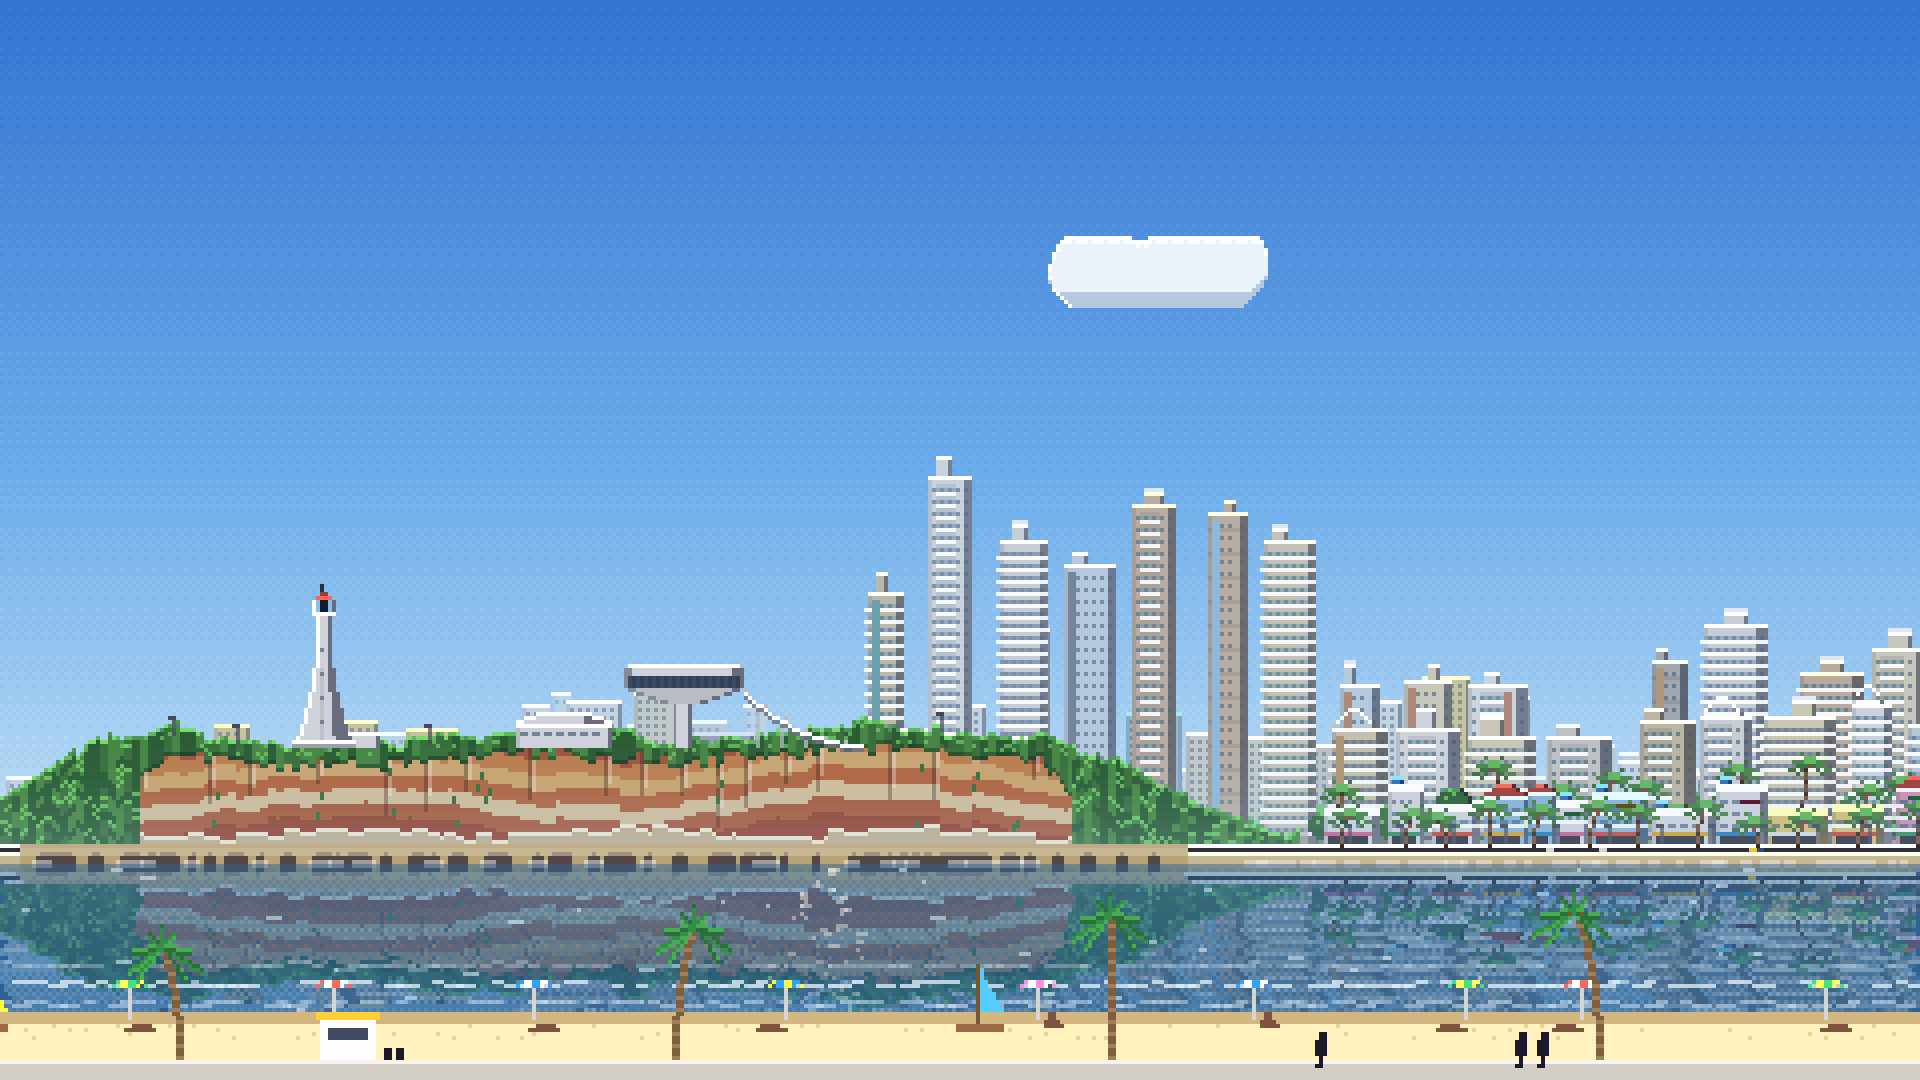
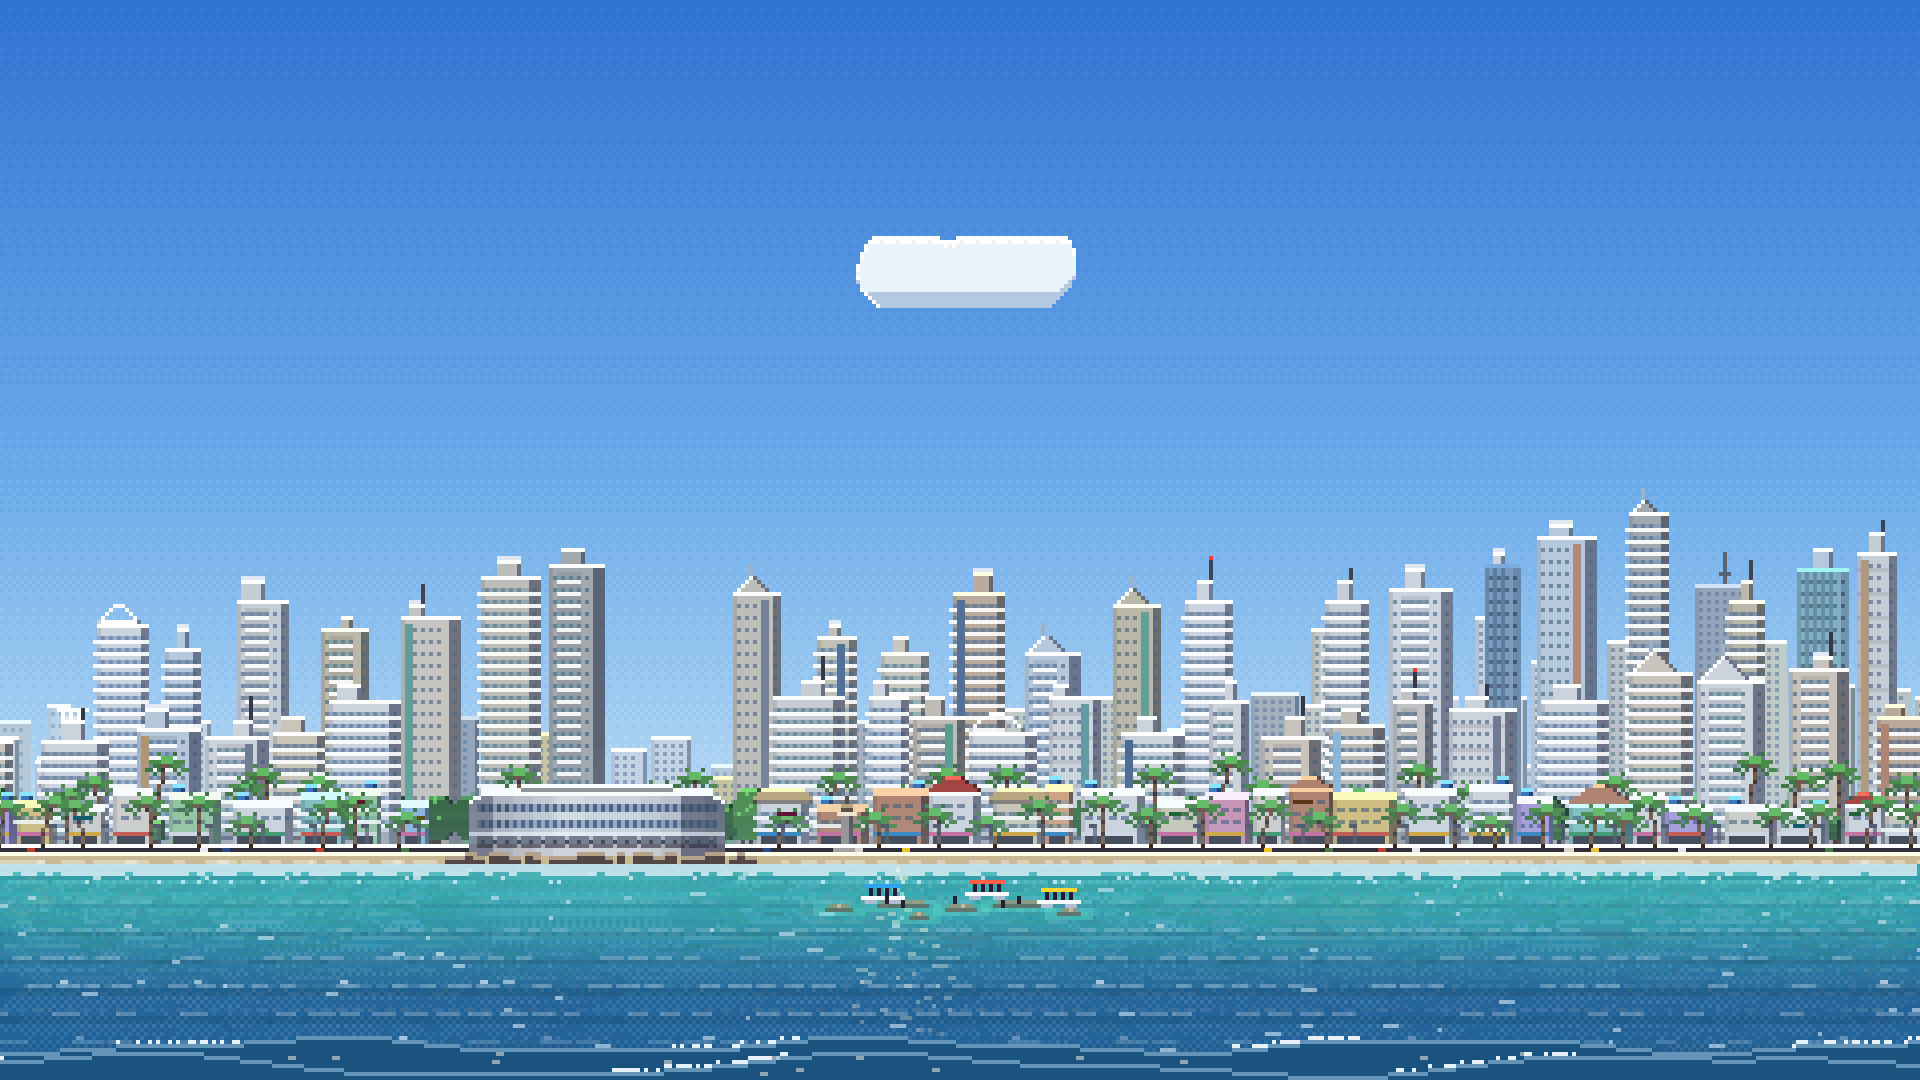
João Pessoa seen from the open Atlantic, not across a river
- Engine: ocean water option (city.water.kind = 'ocean'): turquoise shallows by the beach
  fading to deep blue toward the viewer, weaker choppy reflections, swells rolling in to shore
  with whitecaps, and surf breaking in a foam line on the beach
- Sea foreground (near swells with crests, foam and glints) instead of a second beach
- João Pessoa uses both; Rio keeps its calm Guanabara Bay

diff --git a/js/main.js b/js/main.js
@@ -103,7 +103,10 @@
   let t = 0;
   const events = [];
   let nextEvent = 2, nextAmbient = 6;
-  const promenade = city.foreground && city.foreground.kind === 'beach' && PS.Beach ? new PS.Beach(city.foreground) : new PS.Promenade(city.foreground);
+  const fgKind = city.foreground && city.foreground.kind;
+  const promenade = fgKind === 'beach' ? new PS.Beach(city.foreground) : fgKind === 'sea' ? new PS.Sea(city.foreground) : new PS.Promenade(city.foreground);
+  // Open ocean (vs. river/bay): coloured shallows, weaker choppy reflections, swells and surf.
+  const ocean = city.water && city.water.kind === 'ocean' ? city.water : null;
   const claimed = new Set();
   const claimedGrid = new Set();
   let toast = null;
@@ -298,17 +301,26 @@
   function renderWater() {
     const w = VW, h = VH - horizon;
     const img = waterCtx.createImageData(w, h), d = img.data;
-    const base = P.wat;
-    const a0 = 0.46 + 0.04 * P.day, a1 = 0.78 + 0.04 * P.day;
+    let base = P.wat;
+    let a0 = 0.46 + 0.04 * P.day, a1 = 0.78 + 0.04 * P.day;
+    let shallow = null, deep = null;
+    if (ocean) {
+      // lit sea colours: turquoise over the sandy shallows by the beach, deep blue toward the viewer
+      const lit = PS.add(P.amb, PS.scale(P.sun, 0.35));
+      const tone = (c) => mix(PS.mul(hex(c), lit), P.wat, 0.25 + 0.5 * P.dark);
+      shallow = tone(ocean.shallow || '#3cc0b0'); deep = tone(ocean.deep || '#1d5f8e');
+      a0 = 0.62 + 0.25 * P.day; a1 = 0.86 + 0.1 * P.day;
+    }
     for (let y = 0; y < h; y++) {
       const k = y / Math.max(1, h - 1);
+      const col = ocean ? mix(shallow, deep, smooth(0.05, 0.7, k)) : base;
       for (let x = 0; x < w; x++) {
         const b = PS.bayer(x, y);
         let a = a0 + (a1 - a0) * k;
         a = Math.floor(a * 8 + b) / 8;
         if (y % 3 === 1 && b > 0.35) a += 0.08; // ripple troughs
         const i = (y * w + x) * 4;
-        d[i] = base[0]; d[i + 1] = base[1]; d[i + 2] = base[2]; d[i + 3] = Math.min(255, a * 255);
+        d[i] = col[0]; d[i + 1] = col[1]; d[i + 2] = col[2]; d[i + 3] = Math.min(255, a * 255);
       }
     }
     waterCtx.putImageData(img, 0, 0);
@@ -616,7 +628,7 @@
     fctx.setTransform(1, 0, 0, 1, 0, 0);
     const offs = [];
     for (let r = 0; r < band; r++) {
-      const amp = 0.4 + r * 0.07;
+      const amp = (0.4 + r * 0.07) * (ocean ? 2.4 : 1);
       offs.push(Math.round(Math.sin(r * 0.9 + t * 1.8 + Math.sin(r * 0.37 - t * 0.7) * 2) * amp));
     }
     for (let r = 0; r < band;) {
@@ -628,8 +640,46 @@
     ctx.drawImage(water, 0, 0, VW, wh, 0, horizon * s, VW * s, wh * s);
   }
 
+  // Ocean: swells rolling in toward the shore, whitecaps, and surf breaking on the beach.
+  function drawOcean(om) {
+    const wh = VH - horizon;
+    const lit = PS.add(P.amb, PS.scale(P.sun, 0.35));
+    const foam = mix(PS.mul([240, 246, 250], [Math.min(1, lit[0] + 0.15), Math.min(1, lit[1] + 0.15), Math.min(1, lit[2] + 0.15)]), P.hor, 0.2);
+    const trough = PS.mul(hex(ocean.deep || '#1d5f8e'), PS.scale(lit, 0.6));
+    const drift = cam * 1.2;
+    for (let k = 0; k < 7; k++) {
+      const p = (t / 11 + k / 7) % 1;               // 0 = near the viewer, 1 = at the shore
+      const y = Math.round(VH - 3 - p * (wh - 5));
+      const near = 1 - p, cell = 4 + Math.round(near * 6);
+      const fade = Math.sin(p * Math.PI) * 0.9 + 0.1;
+      ctx.fillStyle = PS.cssA(trough, 0.22 * fade);
+      pS.rect(0, y + 1, VW, near > 0.5 ? 2 : 1);
+      ctx.fillStyle = PS.cssA(foam, (0.18 + 0.2 * near) * fade);
+      const off = drift * (0.6 + near * 0.6) + k * 37;
+      for (let cx = -((off % cell) + cell) % cell; cx < VW; cx += cell) {
+        const idx = Math.floor((cx + off) / cell);
+        const hsh = PS.hash(idx, k * 131 + Math.floor(t / 11 + k / 7));
+        if (hsh < 0.3) continue;
+        pS.rect(Math.round(cx), y, Math.max(1, Math.round(cell * (0.4 + hsh * 0.5))), 1);
+        if (hsh > 0.93 && P.day > 0.2) { ctx.fillStyle = PS.cssA(foam, 0.7 * fade); pS.rect(Math.round(cx) + 1, y - 1, 2, 1); ctx.fillStyle = PS.cssA(foam, (0.18 + 0.2 * near) * fade); }
+      }
+    }
+    // surf line along the beach: a foam band that surges and pulls back
+    const surge = (Math.sin(t * 0.9) + 1) / 2;
+    ctx.fillStyle = PS.cssA(foam, 0.75 - 0.35 * P.dark);
+    const tick = Math.floor(t * 3);
+    for (let x = 0; x < VW; x += 2) {
+      const wx = Math.floor((x + om) / 2);
+      const hsh = PS.hash(wx, 7);
+      const depth = 1 + Math.round(hsh * 1.5 + surge * 1.5);
+      pM.rect(Math.floor(om / 2) * 2 + x, horizon, 2, depth);
+      if (PS.hash(wx, tick) > 0.8) pM.rect(Math.floor(om / 2) * 2 + x, horizon + depth + 1, 1, 1);
+    }
+  }
+
   function drawWaterSparkle(om) {
     const wh = VH - horizon;
+    if (ocean) drawOcean(om);
     const hl = mix(P.hor, [255, 255, 255], 0.35);
     const hlc = PS.cssA(hl, 0.35 + 0.25 * P.day);
     ctx.fillStyle = hlc;

diff --git a/js/beach.js b/js/beach.js
@@ -203,4 +203,40 @@
       }
     }
   };
+
+  // Open-sea foreground (João Pessoa seen from the water): big near swells rolling past the viewer.
+  PS.Sea = class {
+    constructor(o) { this.o = o || {}; this.par = 1.45; this.peds = []; }
+    update() {}
+    draw(p, S, camF) {
+      const VH = S.VH, P = S.P, t = S.t;
+      p.ox = 0;
+      const lit = PS.add(P.amb, PS.scale(P.sun, 0.4));
+      const deep = PS.mix(PS.mul(hex(this.o.deep || '#1a5a86'), lit), P.wat, 0.2 + 0.5 * P.dark);
+      const body = PS.mix(deep, [0, 0, 0], 0.15);
+      const crest = PS.mix(deep, [230, 245, 250], 0.35 - 0.2 * P.dark);
+      const foam = PS.mix(PS.mul([240, 246, 250], [Math.min(1, lit[0] + 0.2), Math.min(1, lit[1] + 0.2), Math.min(1, lit[2] + 0.2)]), P.hor, 0.2);
+      const VW = S.VW;
+      // two layers of long swells, the nearest largest
+      for (const [amp, base, speed, len, k] of [[1.6, VH - 9, 0.5, 0.045, 0], [2.4, VH - 4, 0.8, 0.032, 1]]) {
+        const off = camF * (1 + k * 0.4);
+        for (let x = 0; x < VW; x++) {
+          const ph = (x + off) * len + t * speed + k * 2;
+          const y = Math.round(base + Math.sin(ph) * amp + Math.sin(ph * 2.3 + 1) * amp * 0.35);
+          p.rect(x, y + 1, 1, VH - y, css(body));
+          p.rect(x, y, 1, 1, css(crest));
+          const slope = Math.cos(ph);
+          if (slope < -0.75 && PS.hash(Math.floor(x + off), Math.floor(t * 2) + k) > 0.45) p.rect(x, y - 1, 1, 1, css(foam));
+        }
+      }
+      // glints on the near water
+      if (P.day > 0.3 && !P.sunHidden) {
+        const tick = Math.floor(t * 4);
+        for (let i = 0; i < 18; i++) {
+          if (PS.hash(i, tick) > 0.5) continue;
+          p.rect(Math.floor(PS.hash(i * 3, tick) * VW), VH - 7 + Math.floor(PS.hash(i * 7, tick) * 6), 2, 1, PS.cssA([255, 250, 230], 0.5));
+        }
+      }
+    }
+  };
 })();

diff --git a/js/cities/jampa.js b/js/cities/jampa.js
@@ -799,7 +799,9 @@
         { y: 1, x0: HOTEL_X + (HOTEL_W >> 1) + 2, x1: BEACH[1], dir: 1 },
       ],
       holidays: ['xmas', 'nye', 'carnaval', 'saoJoao', 'outubroRosa', 'novembroAzul'],
-      foreground: { kind: 'beach', jangadas: true, mosaic: false },
+      // Seen from the open Atlantic (not across a river): sea foreground, ocean water with surf.
+      foreground: { kind: 'sea', deep: '#1a5a86' },
+      water: { kind: 'ocean', shallow: '#3cc4b4', deep: '#1d5f8e' },
       flags: 'br',
       glow(season) {
         const e = season && season.esb;
